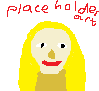
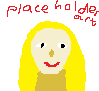
added ideas.txt, and changed placeholder image

Changed region(s): [[0.303, 0.5714, 0.6364, 0.7912], [0.6667, 0.6154, 0.697, 0.6374]]

diff --git a/index.html b/index.html
@@ -4,6 +4,11 @@
 
 </head>
 <body>
+	<!-- 
+npx tsc --watch 
+
+
+	-->
 	Click the mouse to make the character move!
 <div id="game">
 
